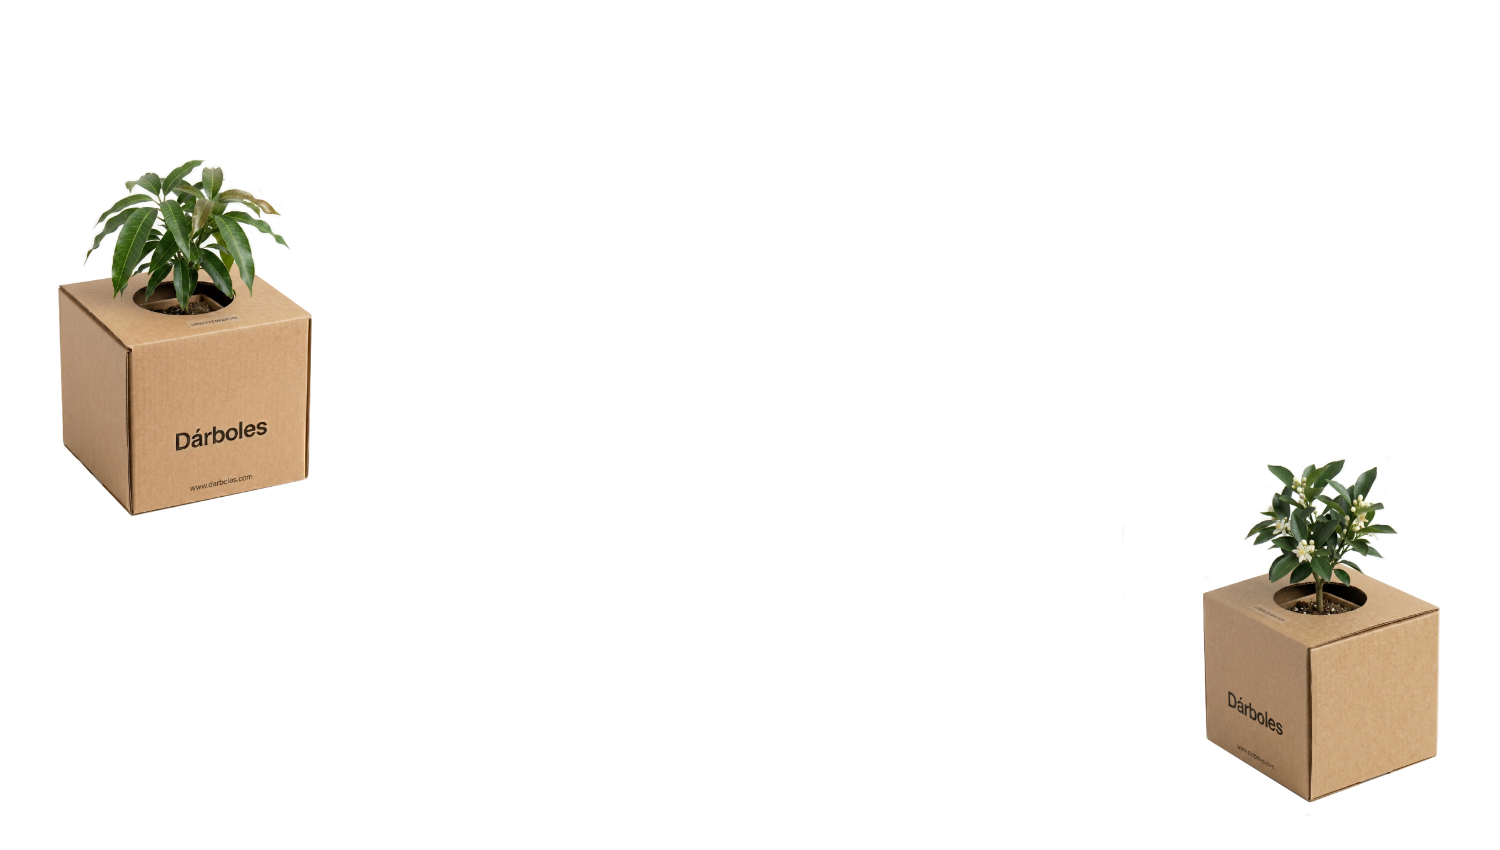
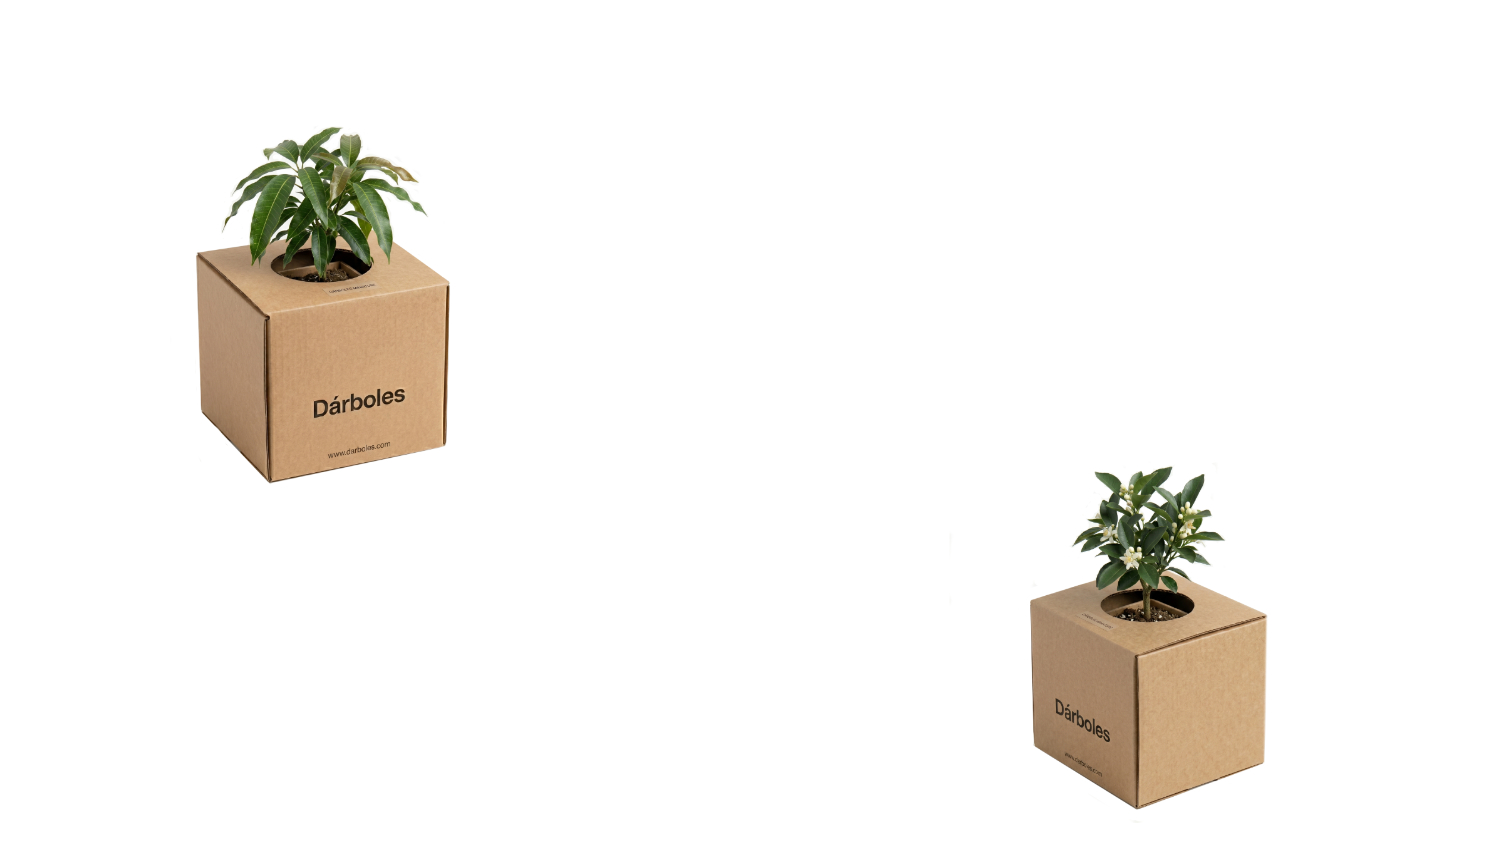
Table BP

Changed region(s): [[0.0307, 0.1529, 0.3067, 0.6118], [0.6747, 0.5506, 0.9813, 0.9482]]

diff --git a/src/app/page.module.css b/src/app/page.module.css
@@ -15,7 +15,7 @@
 }
 
 /* Tablets and Small Laptops */
-@media (min-width: 768px) and (max-width: 1499px) {
+@media (min-width: 768px) and (max-width: 1549px) {
   .heroContainer {
     background-image: url('/background-tablet.jpg?v=2');
     background-position: bottom center;
@@ -23,7 +23,7 @@
 }
 
 /* Large Desktops */
-@media (min-width: 1500px) {
+@media (min-width: 1550px) {
   .heroContainer {
     background-image: url('/background-desktop.jpg?v=2');
     background-position: bottom center;